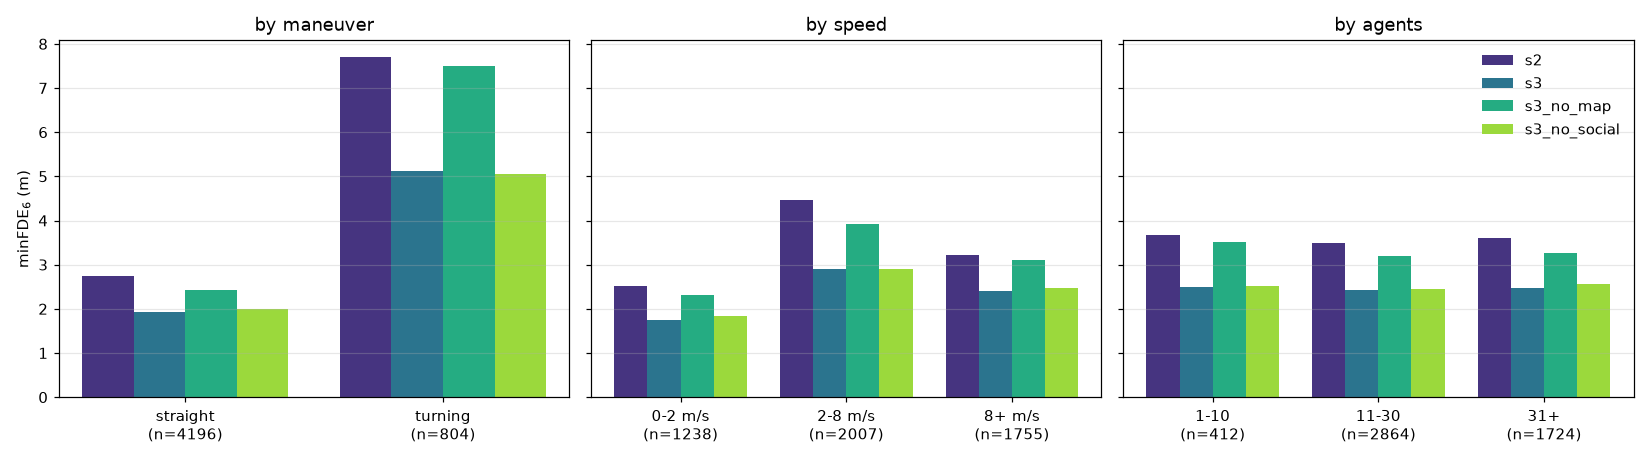
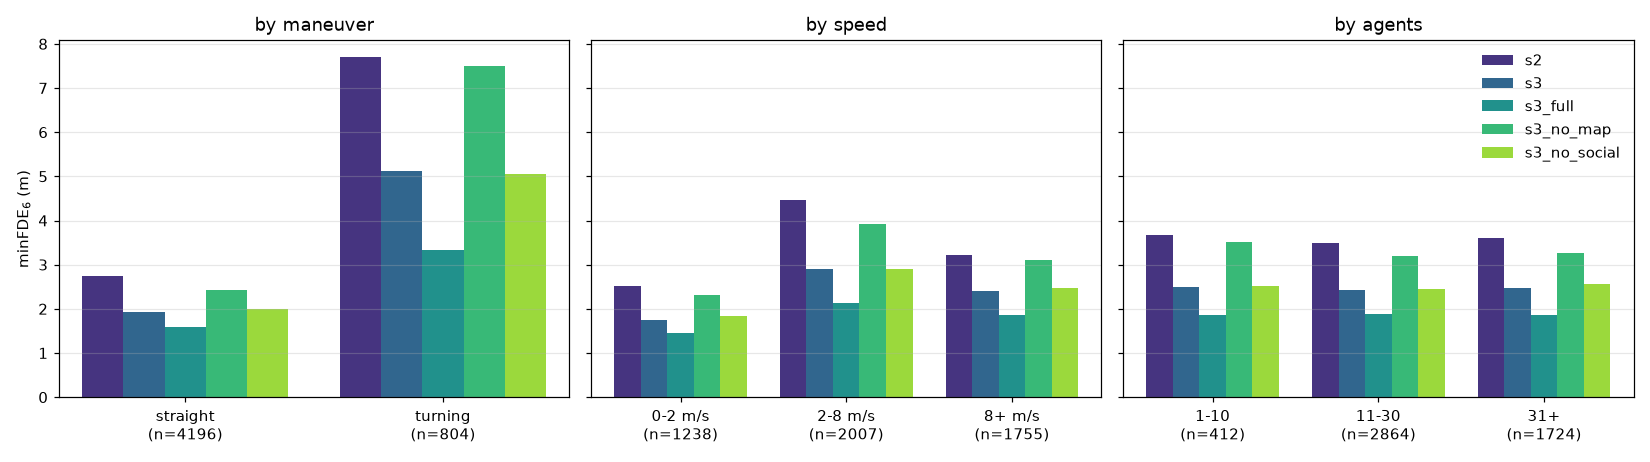
feat: full-dataset training run

diff --git a/scripts/download_subset.py b/scripts/download_subset.py
@@ -3,6 +3,9 @@
 The bucket is public; we use unsigned (anonymous) requests. Scenario IDs are
 listed first, shuffled with a fixed seed, and the chosen subset is written to a
 manifest file so the subset is frozen and reproducible.
+
+With --all, every scenario of the split is downloaded to raw/<split>_full
+instead, leaving the frozen subset and its manifest untouched.
 """
 
 import argparse
@@ -59,17 +62,23 @@ def download_scenario(s3, split: str, sid: str, out_root: Path) -> str:
 def main() -> None:
     p = argparse.ArgumentParser()
     p.add_argument("--split", required=True, choices=["train", "val"])
-    p.add_argument("--n", type=int, required=True)
+    p.add_argument("--n", type=int, help="subset size (required unless --all)")
+    p.add_argument("--all", action="store_true", help="whole split -> raw/<split>_full")
     p.add_argument("--out", default=str(data_root() / "raw"))
     p.add_argument("--workers", type=int, default=32)
     args = p.parse_args()
+    if args.all == (args.n is not None):
+        p.error("give exactly one of --n or --all")
 
     s3 = make_client()
-    out_root = Path(args.out) / args.split
+    out_root = Path(args.out) / (f"{args.split}_full" if args.all else args.split)
     # manifests live in the repo so every machine downloads the identical subset
     manifest = MANIFEST_DIR / f"{args.split}_ids.txt"
 
-    if manifest.exists():
+    if args.all:
+        chosen = list_scenario_ids(s3, args.split)
+        print(f"{len(chosen)} scenarios in {args.split}", file=sys.stderr)
+    elif manifest.exists():
         chosen = manifest.read_text().split()
         print(f"using existing manifest ({len(chosen)} ids)", file=sys.stderr)
         assert len(chosen) == args.n, "manifest size != --n; delete it to resample"

diff --git a/scripts/evaluate.py b/scripts/evaluate.py
@@ -3,10 +3,12 @@
     python scripts/evaluate.py --stage s0
     python scripts/evaluate.py --config configs/s1_gru.yaml
     python scripts/evaluate.py --config configs/s3_polyline.yaml --save-figs 12
+    python scripts/evaluate.py --config configs/s3_full.yaml --val-split val_full
 
 Every stage goes through this one script on the same scenarios, so the rows of
 results/val_metrics.csv are directly comparable. Re-evaluating a stage replaces
 its row. Per-scenario metrics land in results/per_scenario/ for error analysis.
+Rows evaluated on the whole official val split are named <stage>@val_full.
 """
 
 import argparse
@@ -87,13 +89,14 @@ def main() -> None:
     p.add_argument("--stage", choices=["s0"], help="parameter-free stages")
     p.add_argument("--config", type=Path, help="yaml of a trained stage")
     p.add_argument("--ckpt", type=Path, help="defaults to <ckpt_dir>/best.pt")
+    p.add_argument("--val-split", default="val", choices=["val", "val_full"])
     p.add_argument("--save-figs", type=int, default=0, metavar="N", help="plot the N worst scenarios")
     args = p.parse_args()
     if (args.stage is None) == (args.config is None):
         p.error("give exactly one of --stage or --config")
 
     device = pick_device()
-    dataset = AV2Dataset(processed_dir("val"))
+    dataset = AV2Dataset(processed_dir(args.val_split), cache=False)
 
     if args.stage == "s0":
         name, k, predict = "s0", 1, constant_velocity
@@ -102,6 +105,8 @@ def main() -> None:
         name, k = cfg["name"], cfg["model"].get("k", 1)
         predict = load_predictor(cfg, device, args.ckpt)
 
+    if args.val_split != "val":
+        name = f"{name}@{args.val_split}"
     per = evaluate_dataset(predict, dataset, device)
 
     row = {

diff --git a/src/trajpred/trainer.py b/src/trajpred/trainer.py
@@ -36,8 +36,9 @@ class Trainer:
         self.loss_fn = loss_fn
         self.ckpt_dir = Path(cfg["ckpt_dir"])
 
-        train_set = AV2Dataset(cfg.get("processed_train") or processed_dir("train"))
-        val_set = AV2Dataset(cfg.get("processed_val") or processed_dir("val"))
+        # val is always the frozen subset, so every checkpoint is picked the same way
+        train_set = AV2Dataset(processed_dir(cfg["train_split"]))
+        val_set = AV2Dataset(processed_dir("val"))
         self.train_loader = DataLoader(
             train_set, batch_size=cfg["batch_size"], shuffle=True, collate_fn=collate, drop_last=True
         )

diff --git a/scripts/analyze_errors.py b/scripts/analyze_errors.py
@@ -52,6 +52,8 @@ def scenario_tags(dataset: AV2Dataset) -> pd.DataFrame:
 def breakdown(tags: pd.DataFrame) -> pd.DataFrame:
     tables = []
     for path in sorted((RESULTS / "per_scenario").glob("*.csv")):
+        if "@" in path.stem:  # rows scored on another split; tags cover the frozen val only
+            continue
         per = pd.read_csv(path).merge(tags, on="scenario_id")
         for group in ("maneuver", "speed", "agents"):
             t = per.groupby(group)[METRICS].mean().round(3)

diff --git a/scripts/preprocess.py b/scripts/preprocess.py
@@ -26,7 +26,7 @@ def _work(args: tuple[Path, Path]) -> bool:
 
 def main() -> None:
     p = argparse.ArgumentParser()
-    p.add_argument("--split", required=True, choices=["train", "val"])
+    p.add_argument("--split", required=True, choices=["train", "val", "train_full", "val_full"])
     p.add_argument("--workers", type=int, default=min(8, os.cpu_count() or 1))
     args = p.parse_args()
 

diff --git a/src/trajpred/config.py b/src/trajpred/config.py
@@ -13,6 +13,7 @@ DEFAULTS = {
     "epochs": 30,
     "grad_accum": 1,
     "seed": 42,
+    "train_split": "train",  # "train_full" = every official training scenario
     "model": {},
 }
 

diff --git a/README.md b/README.md
@@ -24,15 +24,22 @@ graph. Black = observed history, green = what actually happened.*
 | **S3** | **Polyline transformer: map + other agents** | 6 | **1.18** | **2.45** | **0.41** | **3.09** |
 | | S3 without the map | 6 | 1.44 | 3.24 | 0.55 | 3.86 |
 | | S3 without other agents | 6 | 1.19 | 2.49 | 0.43 | 3.13 |
+| **S3-full** | **Same model, all 199,908 training scenarios** | 6 | **0.95** | **1.88** | **0.31** | **2.51** |
 
 minFDE = endpoint error of the best of K predictions; miss rate = share of
 scenarios where no prediction ends within 2 m; brier-minFDE also penalizes
 giving the best prediction a low probability.
 
+On the whole official validation split (24,988 scenarios) S3 scores 2.44 and
+S3-full 1.86 minFDE — within 0.02 m of the table, so the 5,000-scenario subset
+is representative.
+
 **Read this before quoting the numbers:**
-- Trained on a **15,000-scenario subset (7.5% of the training set)** and
-  evaluated on a 5,000-scenario subset of official val, both drawn with seed 42
-  and frozen in [manifests/](manifests/). These are not leaderboard numbers.
+- Every row except S3-full is trained on a **15,000-scenario subset (7.5% of the
+  training set)**. All rows are evaluated on a 5,000-scenario subset of official
+  val. Both subsets were drawn with seed 42 and are frozen in
+  [manifests/](manifests/). These are validation numbers from a small model, not
+  leaderboard entries.
 - One training run per row. Differences below ~0.1 m are not evidence.
 - Checkpoints were picked on the same validation set they are reported on.
 
@@ -67,9 +74,19 @@ reflects the traffic around it; 15k scenes are too few to learn rare
 interactions) are discussed, not proven, in
 [docs/notes/14-analysis.md](docs/notes/14-analysis.md).
 
-**What still fails.** Median endpoint error is 1.7 m, but the worst 10% of
-scenarios carry 38% of the total error: turns taken at speed where all six modes
-went straight, unexpected stops, and wrong-branch choices at intersections.
+**More data beats more architecture.** Training the unchanged S3 on the full
+training set (13× more scenarios, ~1.5 h on one RTX 4060) takes minFDE from 2.45
+to 1.88 m and miss rate from 0.41 to 0.31. The gain is largest on turns
+(5.13 → 3.33 m), which the 15k subset had only ~2,400 examples of. Train and val
+loss are still equal at the end, so the model is not yet saturated. The
+ablations were *not* repeated at this scale — whether other agents still add
+nothing with 200k scenes is the obvious next experiment.
+
+**What still fails.** For the subset-trained S3, median endpoint error is 1.7 m,
+but the worst 10% of scenarios carry 38% of the total error: turns taken at speed
+where all six modes went straight, unexpected stops, and wrong-branch choices at
+intersections. Full data shrinks the tail (median 1.3 m) without changing its
+character: the worst 10% still carry 35%.
 Galleries of the 12 worst scenarios per model are in
 [results/figures/](results/figures/).
 
@@ -97,7 +114,7 @@ python3.12 -m venv .venv
 pip install torch             # Windows+NVIDIA: --index-url https://download.pytorch.org/whl/cu121
 pip install -e ".[dev]"
 
-# 1. data: ~20k scenarios, a few GB (needs s5cmd; see scripts/download_subset.py)
+# 1. data: ~20k scenarios, ~5 GB, anonymous download from the public S3 bucket
 python scripts/download_subset.py --split val --n 5000
 python scripts/download_subset.py --split train --n 15000
 
@@ -118,6 +135,15 @@ python scripts/evaluate.py --config configs/s3_polyline.yaml --save-figs 12   # 
 
 # 5. error analysis -> results/breakdown.csv + figures
 python scripts/analyze_errors.py --compare configs/s2_multimodal.yaml configs/s3_polyline.yaml
+
+# 6. optional: full dataset (~55 GB download, ~1.5 h training)
+python scripts/download_subset.py --split train --all
+python scripts/download_subset.py --split val --all
+python scripts/preprocess.py --split train_full
+python scripts/preprocess.py --split val_full
+python scripts/train.py --config configs/s3_full.yaml
+python scripts/evaluate.py --config configs/s3_full.yaml
+python scripts/evaluate.py --config configs/s3_full.yaml --val-split val_full
 ```
 
 Data location defaults to `C:\data\av2` (Windows) or `~/data/av2` (macOS/Linux);

diff --git a/docs/notes/15-full-data.md b/docs/notes/15-full-data.md
@@ -1,0 +1,36 @@
+# Full-data run — notes
+
+Same S3 model, same recipe, one change: train on all 199,908 official training
+scenarios instead of the 15k subset (20 epochs instead of 40; ~4 min 20 s per
+epoch on the RTX 4060, ~1.5 h total).
+
+| model | trained on | frozen 5k val minFDE₆ | full official val (24,988) minFDE₆ |
+|---|---|---|---|
+| s3 | 15k subset | 2.45 | 2.44 |
+| s3_full | 199,908 | **1.88** | **1.86** |
+
+Full rows (frozen val): minADE 0.95, minFDE 1.88, MR 0.31, brier-minFDE 2.51.
+
+## What this shows
+- **Data was the bottleneck, as the S3 notes guessed.** 13× more scenarios:
+  minFDE −0.57 m, miss rate 0.41 → 0.31, with zero architecture changes. After
+  only 3 epochs on full data the model was at 2.86 m; by epoch 8 it had passed
+  the subset model's final score.
+- **Biggest gain where the subset model was weakest:** turning scenarios
+  5.13 → 3.33 m (straight: 1.93 → 1.60). Turns are 16% of scenarios, so the
+  subset held only ~2,400 of them; the full set has ~32,000.
+- **Still not saturated:** train loss 1.96 vs val 1.98 at the end — no
+  overfitting gap at all. More epochs or a bigger model would likely still help.
+- **The frozen 5k val subset is representative:** both models score within
+  0.02 m on the subset and on the full official val split. Conclusions drawn on
+  the subset (ablations, breakdowns) can be trusted at that resolution.
+
+## Housekeeping
+- Full data lives in `raw/train_full`, `raw/val_full`, `processed/…_full`
+  (`download_subset.py --all`); the seed-42 subset and its manifests are
+  untouched, and all 5,000 subset bundles are byte-identical in `val_full`.
+- Checkpoint selection still uses the frozen 5k val, so `s3_full@val_full` is
+  the cleaner number: 80% of those scenarios played no part in selection.
+- Not done: ablations on full data. The "social context adds nothing" finding
+  was measured at 15k scenes only — it may not hold at 200k, and that is the
+  obvious next experiment.

diff --git a/results/README.md b/results/README.md
@@ -6,7 +6,7 @@ Everything here is produced by `scripts/evaluate.py` and
 
 | file | what |
 |---|---|
-| `val_metrics.csv` | one row per stage: minADE, minFDE, MR, brier-minFDE |
+| `val_metrics.csv` | one row per stage: minADE, minFDE, MR, brier-minFDE. Rows named `<stage>@val_full` are scored on the whole official val split (24,988 scenarios) instead of the frozen 5,000 |
 | `breakdown.csv` | the same metrics per stage, bucketed by maneuver (turning = GT heading change > 30°), speed at t=49, and number of agents in the scene |
 | `figures/breakdown.png` | minFDE₆ per bucket for the K=6 stages |
 | `figures/s2_vs_s3.png` | the turning scenarios where S3 improves most on S2 |

diff --git a/docs/notes/14-analysis.md b/docs/notes/14-analysis.md
@@ -55,6 +55,8 @@ error (p90 4.7 m, p99 15.6 m). The worst cases are almost all one of:
 MR 0.41 is the honest summary: in 41% of scenarios no mode ends within 2 m.
 
 ## Caveats to state whenever quoting these numbers
+- Everything above is at 15k training scenes. The full-data run
+  ([15-full-data.md](15-full-data.md)) did not repeat the ablations.
 - 15k/5k seed-42 subset, not the full benchmark; not comparable to leaderboard
   entries.
 - One seed per config. Differences under ~0.1 m are not evidence.

diff --git a/docs/notes/12-s3.md b/docs/notes/12-s3.md
@@ -37,3 +37,6 @@ augmentation, lane-graph connectivity and much more refined decoders. This is
 15k scenarios (7.5%) and a plain MLP head. The train/val loss gap at the end
 (2.03 vs 2.11) says the model is starting to be data-limited, not
 capacity-limited. Task 15 (full data) is the lever, not more layers.
+
+*Update:* confirmed — the same model on the full training set reaches 1.88 m.
+See [15-full-data.md](15-full-data.md).
